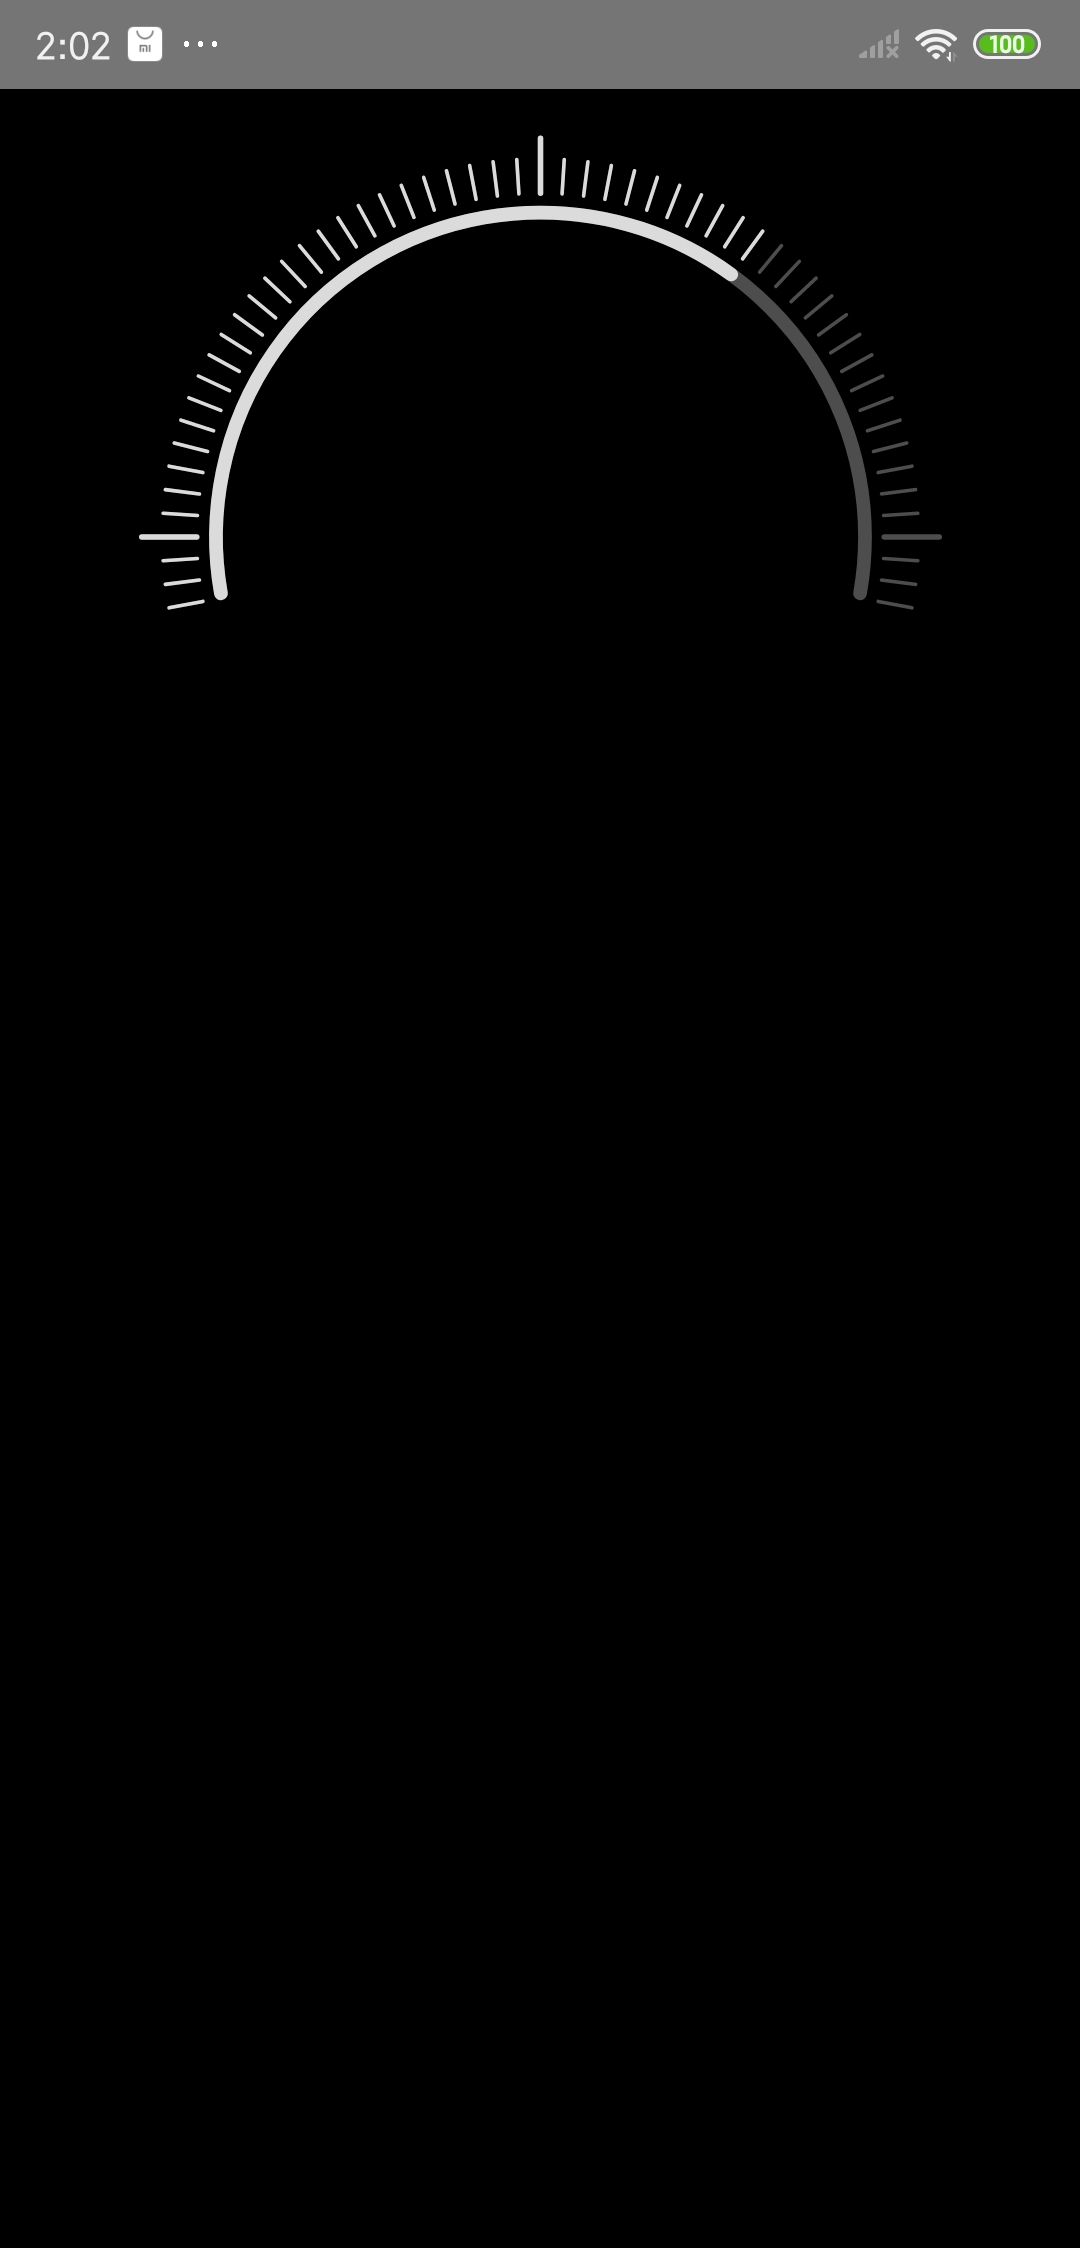
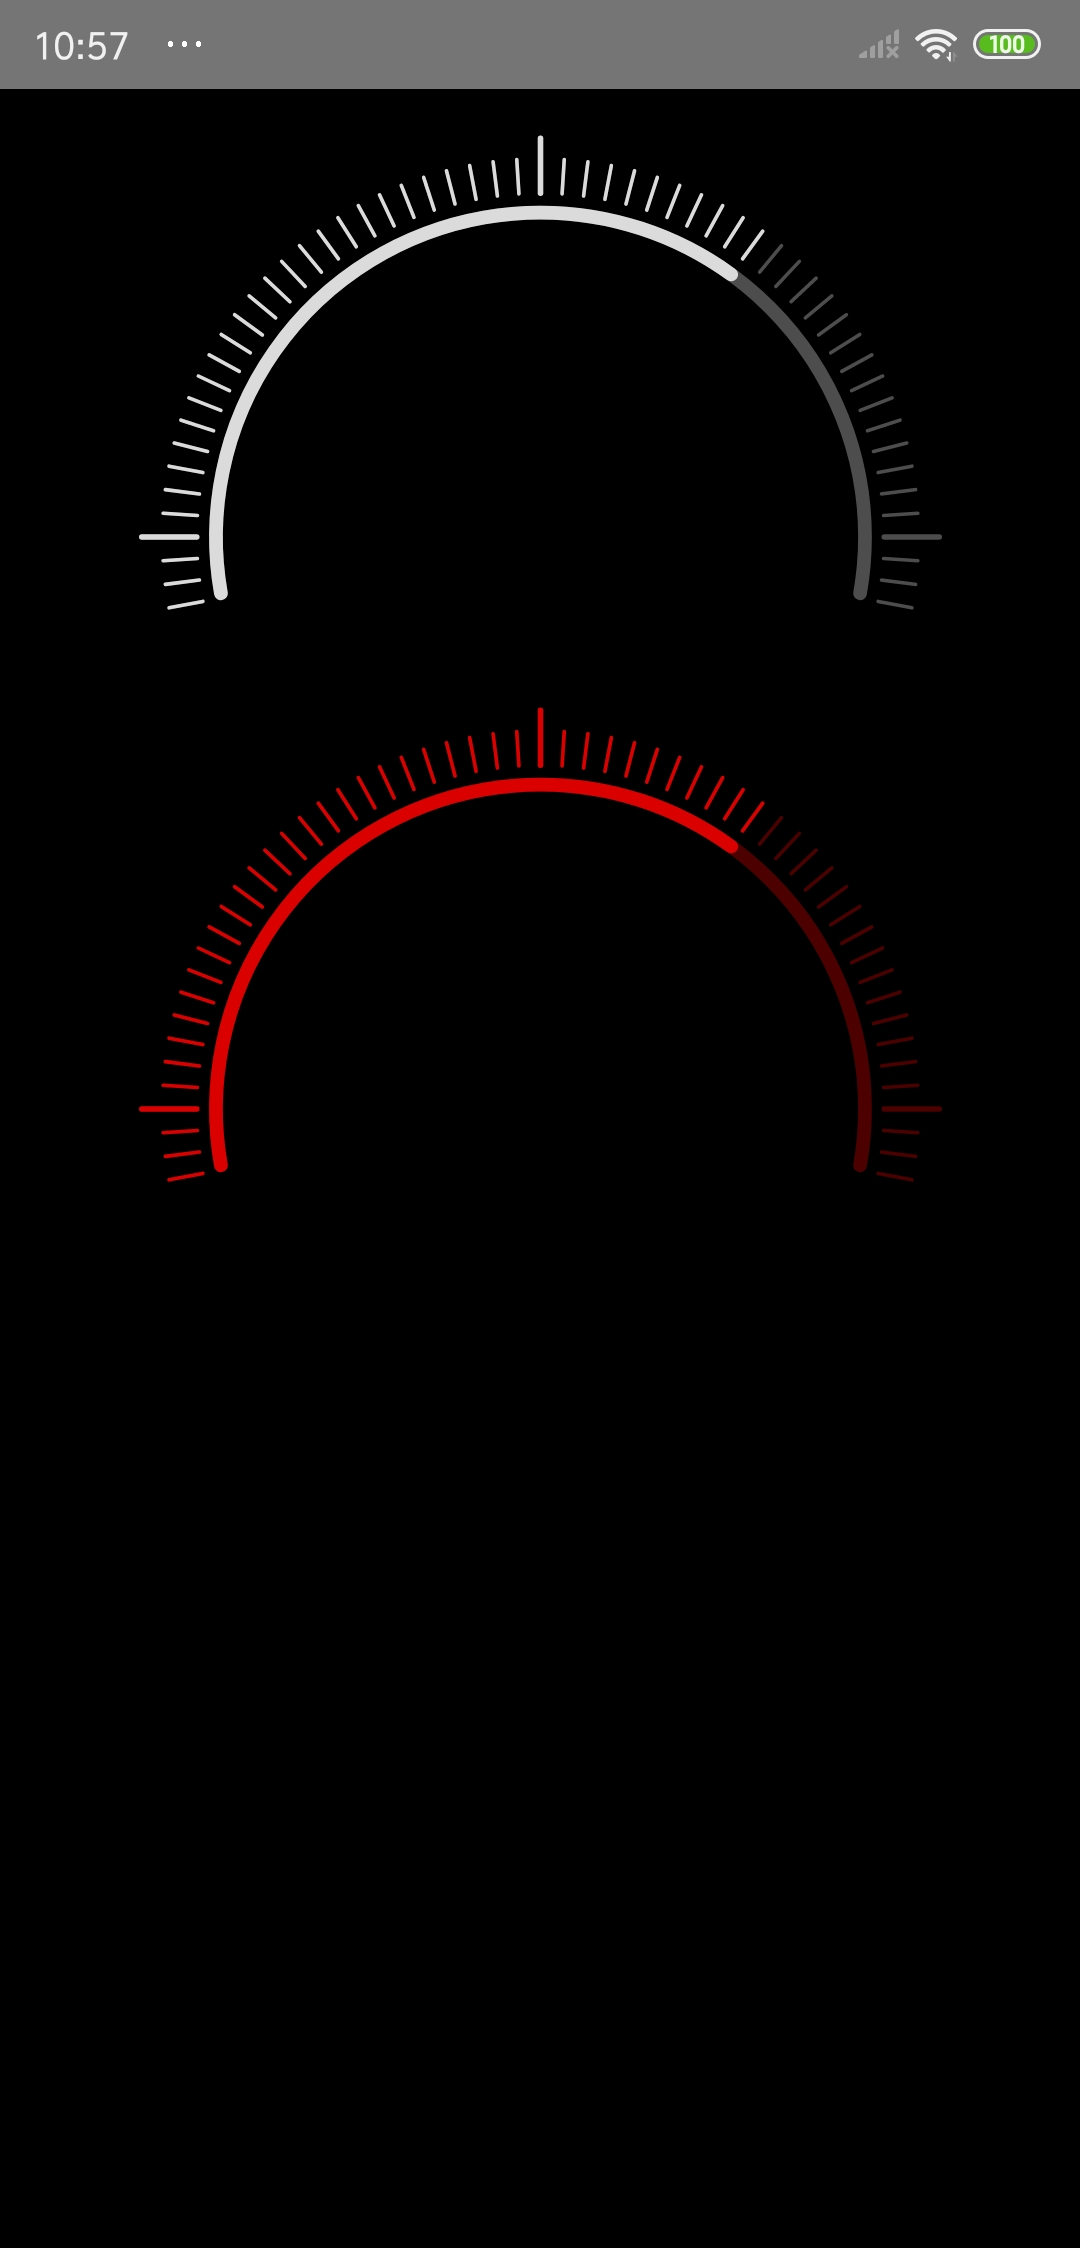
刻度进度条新增颜色属性

Changed region(s): [[0.1222, 0.3114, 0.8556, 0.5294], [0.0306, 0.0, 0.1528, 0.0311]]

diff --git a/src/dial/index.js b/src/dial/index.js
@@ -26,6 +26,10 @@ export default class Dial extends PureComponent {
       style: ViewPropTypes.style,
       progress: PropTypes.number,
       width: PropTypes.number,
+      strokeColor: PropTypes.shape({ // 颜色，背景色、前景色
+        background: PropTypes.string,
+        foreground: PropTypes.string,
+    }),
     };
 
     constructor(props) {
@@ -66,11 +70,12 @@ export default class Dial extends PureComponent {
 
     /**
      * 画圆形进度
-     * @param {*} x 圆心x轴坐标
-     * @param {*} y 圆心y轴坐标
-     * @param {*} radius 半径
+     * @param {number} x      圆心x轴坐标
+     * @param {number} y      圆心y轴坐标
+     * @param {number} radius 半径
+     * @param {string} color  颜色
      */
-    drawArc(x, y, radius) {
+    drawArc(x, y, radius, color) {
       // （求半圆起点的坐标和终点的坐标）已知圆心，半径，角度，求圆上的点坐标
       const startX = x + radius * Math.cos(170 / 180.0 * Math.PI);
       const startY = y + radius * Math.sin(170 / 180.0 * Math.PI);
@@ -83,7 +88,7 @@ export default class Dial extends PureComponent {
           key="an"
           // 半圆路径，从起点经过中间，再到终点
           d={`M${startX} ${startY} A${radius} ${radius} 0 0 1 ${cX} ${cY} A${radius} ${radius} 0 0 1 ${endX} ${endY}`}
-          stroke="rgba(255,255,255,0.3)"
+          stroke={color}
           strokeWidth={STROKE_WIDTH}
           strokeLinecap="round"
         />
@@ -92,18 +97,18 @@ export default class Dial extends PureComponent {
 
     /**
      * 画刻度线
-     * @param {*} x 圆心x轴坐标
-     * @param {*} y 圆心y轴坐标
-     * @param {*} radius 进度圆的半径
-     * @param {*} progress 进度
+     * @param {number} x      圆心x轴坐标
+     * @param {number} y      圆心y轴坐标
+     * @param {number} radius 进度圆的半径
+     * @param {string} color  颜色
      */
-    drawScale(x, y, radius) {
+    drawScale(x, y, radius, color) {
       /**
-         * 画这些刻度需要有两个虚拟的圆，
-         * 1.外面的大圆为刻度外点连成的圆
-         * 2.里面的小圆为刻度内点连成的圆
-         * 外圆跟圆心连成的线中，外圆与内圆那一段就是刻度，所以需要计算外圆和内圆上的点并画成线
-         */
+       * 画这些刻度需要有两个虚拟的圆，
+       * 1.外面的大圆为刻度外点连成的圆
+       * 2.里面的小圆为刻度内点连成的圆
+       * 外圆跟圆心连成的线中，外圆与内圆那一段就是刻度，所以需要计算外圆和内圆上的点并画成线
+       */
 
       // 外圆（大）的半径，内（小）圆的半径
       const bbRadius = radius + STROKE_WIDTH + SCALE_MARGIN + SCALE_LONG_WIDTH; // 更大的圆（长刻度线）的半径
@@ -139,7 +144,7 @@ export default class Dial extends PureComponent {
           <Path
             key={i}
             d={`M${bX} ${bY} L${sX} ${sY}`}
-            stroke="rgba(255,255,255,0.3)"
+            stroke={color}
             strokeWidth={strokeWidth}
             strokeLinecap="round"
           />
@@ -150,12 +155,18 @@ export default class Dial extends PureComponent {
     }
 
     render() {
-      const { width, style } = this.props;
+      const { width, style, strokeColor } = this.props;
       const { radius, anim } = this.state;
       const height = radius + 60;
       // 圆心坐标
       const x = width / 2;
       const y = height - 30;
+
+      // 进度条颜色
+      let bgStrokeColor = 'rgba(255,255,255,0.3)';
+      if (strokeColor && strokeColor.background) {
+        bgStrokeColor = strokeColor.background;
+      }
 
       return (
         <Svg
@@ -163,8 +174,8 @@ export default class Dial extends PureComponent {
           height={height}
           style={[styles.surface, style]}
         >
-          {this.drawArc(x, y, radius)}
-          {this.drawScale(x, y, radius)}
+          {this.drawArc(x, y, radius, bgStrokeColor)}
+          {this.drawScale(x, y, radius, bgStrokeColor)}
           <AnimatedArcPath
             x={x}
             y={y}
@@ -173,6 +184,7 @@ export default class Dial extends PureComponent {
               inputRange: [0, 100],
               outputRange: [0, 100],
             })}
+            stroke={strokeColor ? strokeColor.foreground : undefined}
           />
           <AnimatedScale
             x={x}
@@ -182,6 +194,7 @@ export default class Dial extends PureComponent {
               inputRange: [0, 100],
               outputRange: [0, 100],
             })}
+            stroke={strokeColor ? strokeColor.foreground : undefined}
           />
         </Svg>
       );

diff --git a/src/dial/ArcPath.js b/src/dial/ArcPath.js
@@ -12,6 +12,7 @@ export default class ArcPath extends PureComponent {
       x: PropTypes.number,
       y: PropTypes.number,
       radius: PropTypes.number,
+      stroke: PropTypes.string,
     };
 
     constructor(props) {
@@ -23,14 +24,15 @@ export default class ArcPath extends PureComponent {
     componentDidMount() {
     }
 
-    /**
-     * 画圆形进度
-     * @param {*} x 圆心x轴坐标
-     * @param {*} y 圆心y轴坐标
-     * @param {*} radius 半径
-     * @param {*} progress 进度
-     */
-    drawArc(x, y, radius, progress) {
+    drawArc() {
+      const {
+        x,
+        y,
+        radius,
+        progress,
+        stroke,
+      } = this.props;
+
       // （求半圆起点的坐标和终点的坐标）已知圆心，半径，角度，求圆上的点坐标
       const startX = x + radius * Math.cos(170 / 180.0 * Math.PI);
       const startY = y + radius * Math.sin(170 / 180.0 * Math.PI);
@@ -39,21 +41,17 @@ export default class ArcPath extends PureComponent {
       const endX = x + radius * Math.cos(10 / 180.0 * Math.PI);
       const endY = y + radius * Math.sin(10 / 180.0 * Math.PI);
 
-      // const highlightPath = Path().moveTo(startX, startY);
       let highlightPath = `M${startX} ${startY}`;
       // 通过进度，画出高亮的部分
       if (progress === 100) {
-        // highlightPath.arcTo(cX, cY, radius).arcTo(endX, endY, radius);
         highlightPath += `A${radius} ${radius} 0 0 1 ${cX} ${cY} A${radius} ${radius} 0 0 1 ${endX} ${endY}`;
       } else if (progress !== 0) {
         if (progress >= 50) {
-          // highlightPath.arcTo(cX, cY, radius);
           highlightPath += `A${radius} ${radius} 0 0 1 ${cX} ${cY}`;
         }
         const angle = 180 + 180 * progress / 100;
         const x1 = x + radius * Math.cos(angle / 180.0 * Math.PI);
         const y1 = y + radius * Math.sin(angle / 180.0 * Math.PI);
-        // highlightPath.arcTo(x1, y1, radius);
         highlightPath += `A${radius} ${radius} 0 0 1 ${x1} ${y1}`;
       }
 
@@ -62,25 +60,14 @@ export default class ArcPath extends PureComponent {
           key="high"
           // 半圆路径，从起点经过中间，再到终点
           d={highlightPath}
-          stroke="rgba(255,255,255,0.8)"
+          stroke={stroke || "rgba(255,255,255,0.8)"}
           strokeWidth={STROKE_WIDTH}
           strokeLinecap="round"
         />
       );
-      // return (
-      //   <Shape
-      //     key="high"
-      //     d={highlightPath}
-      //     stroke="rgba(255,255,255,0.8)"
-      //     strokeWidth={STROKE_WIDTH}
-      //   />
-      // );
     }
 
     render() {
-      const {
-        x, y, radius, progress,
-      } = this.props;
-      return this.drawArc(x, y, radius, progress);
+      return this.drawArc();
     }
 }

diff --git a/src/dial/Scale.js b/src/dial/Scale.js
@@ -11,6 +11,7 @@ export default class Scale extends PureComponent {
       x: PropTypes.number,
       y: PropTypes.number,
       radius: PropTypes.number,
+      stroke: PropTypes.string,
     };
 
     constructor(props) {
@@ -23,20 +24,21 @@ export default class Scale extends PureComponent {
 
     }
 
-    /**
-     * 画刻度线
-     * @param {*} x 圆心x轴坐标
-     * @param {*} y 圆心y轴坐标
-     * @param {*} radius 进度圆的半径
-     * @param {*} progress 进度
-     */
-    drawScale(x, y, radius, progress) {
+    drawScale() {
       /**
        * 画这些刻度需要有两个虚拟的圆，
        * 1.外面的大圆为刻度外点连成的圆
        * 2.里面的小圆为刻度内点连成的圆
        * 外圆跟圆心连成的线中，外圆与内圆那一段就是刻度，所以需要计算外圆和内圆上的点并画成线
        */
+
+      const {
+        x,
+        y,
+        radius,
+        progress,
+        stroke,
+      } = this.props;
 
       // 根据进度计算出高亮的刻度的个数
       let highlightCount = 3;
@@ -82,7 +84,7 @@ export default class Scale extends PureComponent {
           <Path
             key={i}
             d={`M${bX} ${bY} L${sX} ${sY}`}
-            stroke="rgba(255,255,255,0.8)"
+            stroke={stroke || "rgba(255,255,255,0.8)"}
             strokeWidth={strokeWidth}
             strokeLinecap="round"
           />
@@ -93,9 +95,6 @@ export default class Scale extends PureComponent {
     }
 
     render() {
-      const {
-        x, y, radius, progress,
-      } = this.props;
-      return this.drawScale(x, y, radius, progress);
+      return this.drawScale();
     }
 }

diff --git a/example/App.js b/example/App.js
@@ -62,6 +62,15 @@ const App: () => React$Node = () => {
             width={300}
             progress={70}
         />
+        <Dial
+            style={styles.dial}
+            width={300}
+            progress={70}
+            strokeColor={{
+                background: 'rgba(255, 0, 0, 0.3)',
+                foreground: 'rgba(255, 0, 0, 0.8)',
+            }}
+        />
     </ScrollView>
   );
 };

diff --git a/README.md b/README.md
@@ -4,6 +4,9 @@ ReactNative进度组件：圆形、条形、刻度......，带动画。
 
 ## Getting started
 
+使用该组件前，你需要先安装 react-native-svg
+`$ npm install react-native-svg --save`
+
 `$ npm install react-native-wf-progress --save`
 
 
@@ -136,5 +139,17 @@ import {
     <td>进度</td>
     <td>number，0-100范围</td>
     <td>非必须</td>
+  </tr>
+  <tr>
+    <td>strokeColor</td>
+    <td>进度条颜色</td>
+    <td>{<br/>
+      &emsp;background: string,<br/>
+      &emsp;foreground: string<br/>
+      }
+    </td>
+    <td>非必须。
+      背景进度条默认'rgba(255,255,255,0.3)'，
+      前景默认'rgba(255,255,255,0.8)'</td>
   </tr>
 </table>
